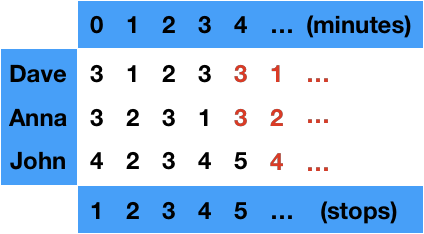
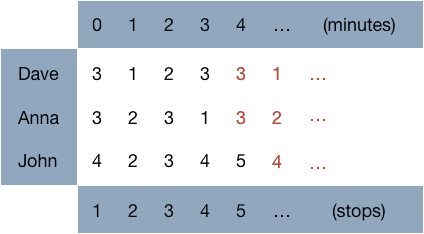
Improve images

diff --git a/src/main/java/es/eriktorr/katas/gossiping/GossipingSpreader.java b/src/main/java/es/eriktorr/katas/gossiping/GossipingSpreader.java
@@ -25,12 +25,12 @@ class GossipingSpreader {
     }
 
     String stopsNeededToSpreadAllTheGossips() {
-        val minutes = IntStream.range(0, MINUTES_MAXIMUM).sorted()
+        val stops = IntStream.range(0, MINUTES_MAXIMUM).sorted()
                 .filter(this::areAllGossipsSpreadAt)
                 .map(this::stopsFrom)
                 .mapToObj(Integer::toString)
                 .findFirst();
-        return minutes.orElse("never");
+        return stops.orElse("never");
     }
 
     private int stopsFrom(int minutes) {

diff --git a/README.md b/README.md
@@ -16,7 +16,7 @@ Initially, each driver knows only one gossip. This is represented as 3 different
 
 ![Initial stage](https://raw.githubusercontent.com/etorres/gossiping-bus-drivers-kata/master/images/Image2.png "Initial stage")
 
-At minute 0, Dave and Anna coincides in the stop 3, so they exchange all the gossips they know. This is represented as a merge operation where sets 
+At minute 0, Dave and Anna coincides in the stop 3, so they exchange all the gossips they know. This can be modelled using a merge operation where sets 
 
 ![Minute 0](https://raw.githubusercontent.com/etorres/gossiping-bus-drivers-kata/master/images/Image3.png "Minute 0")
 
